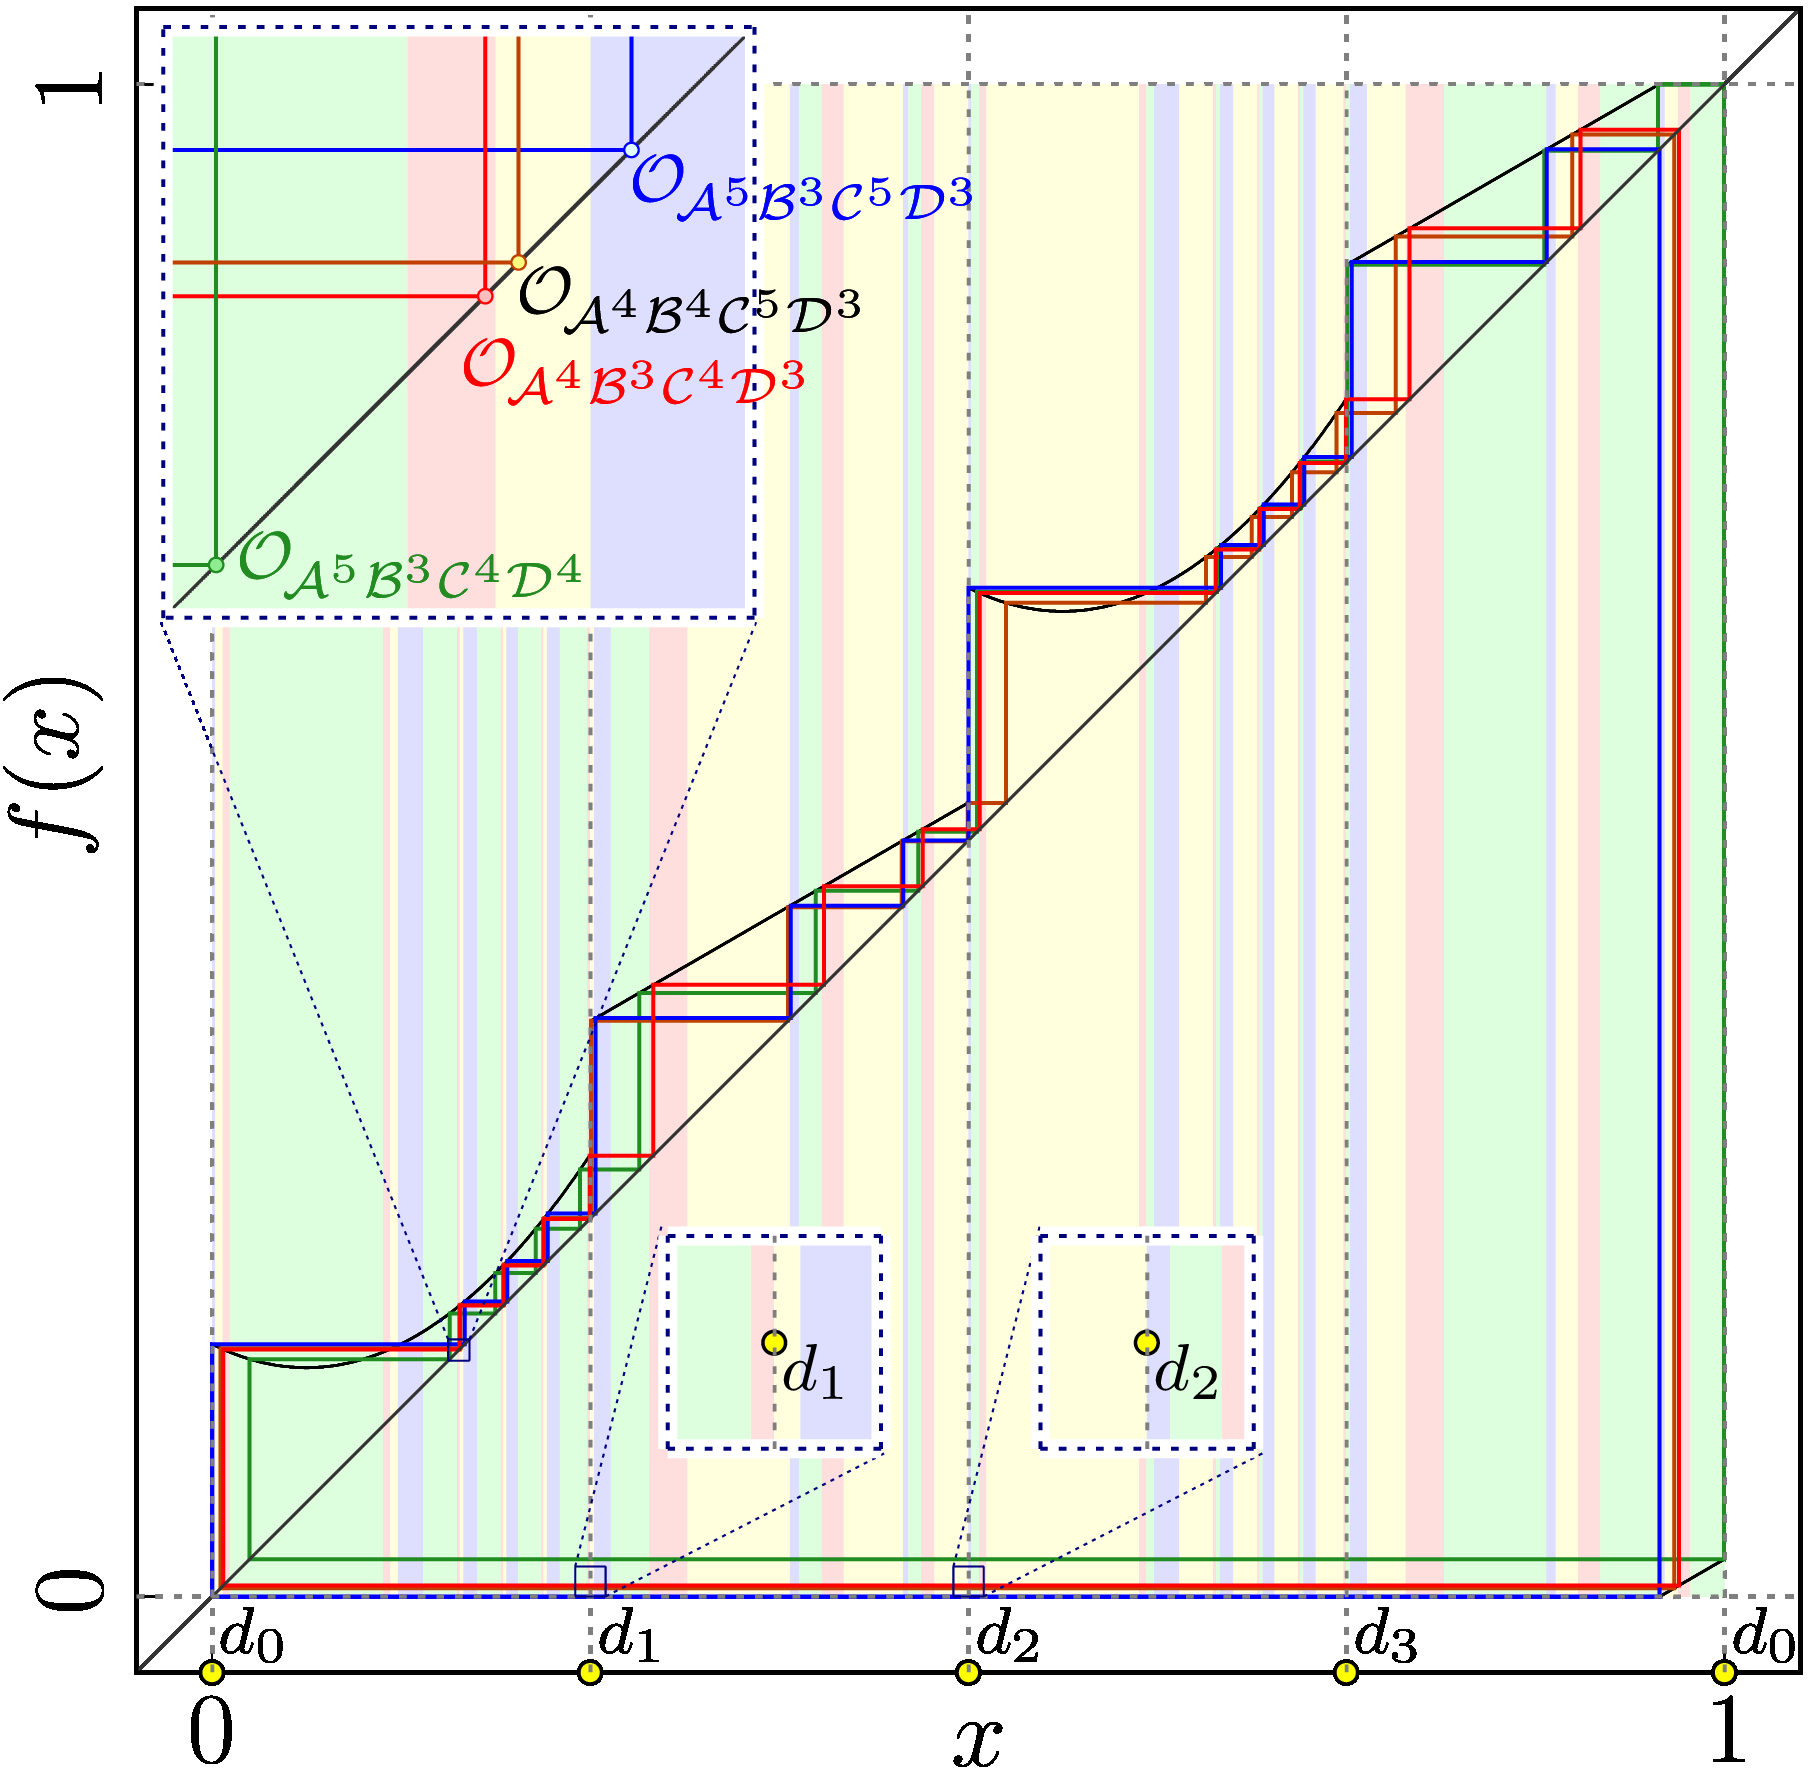
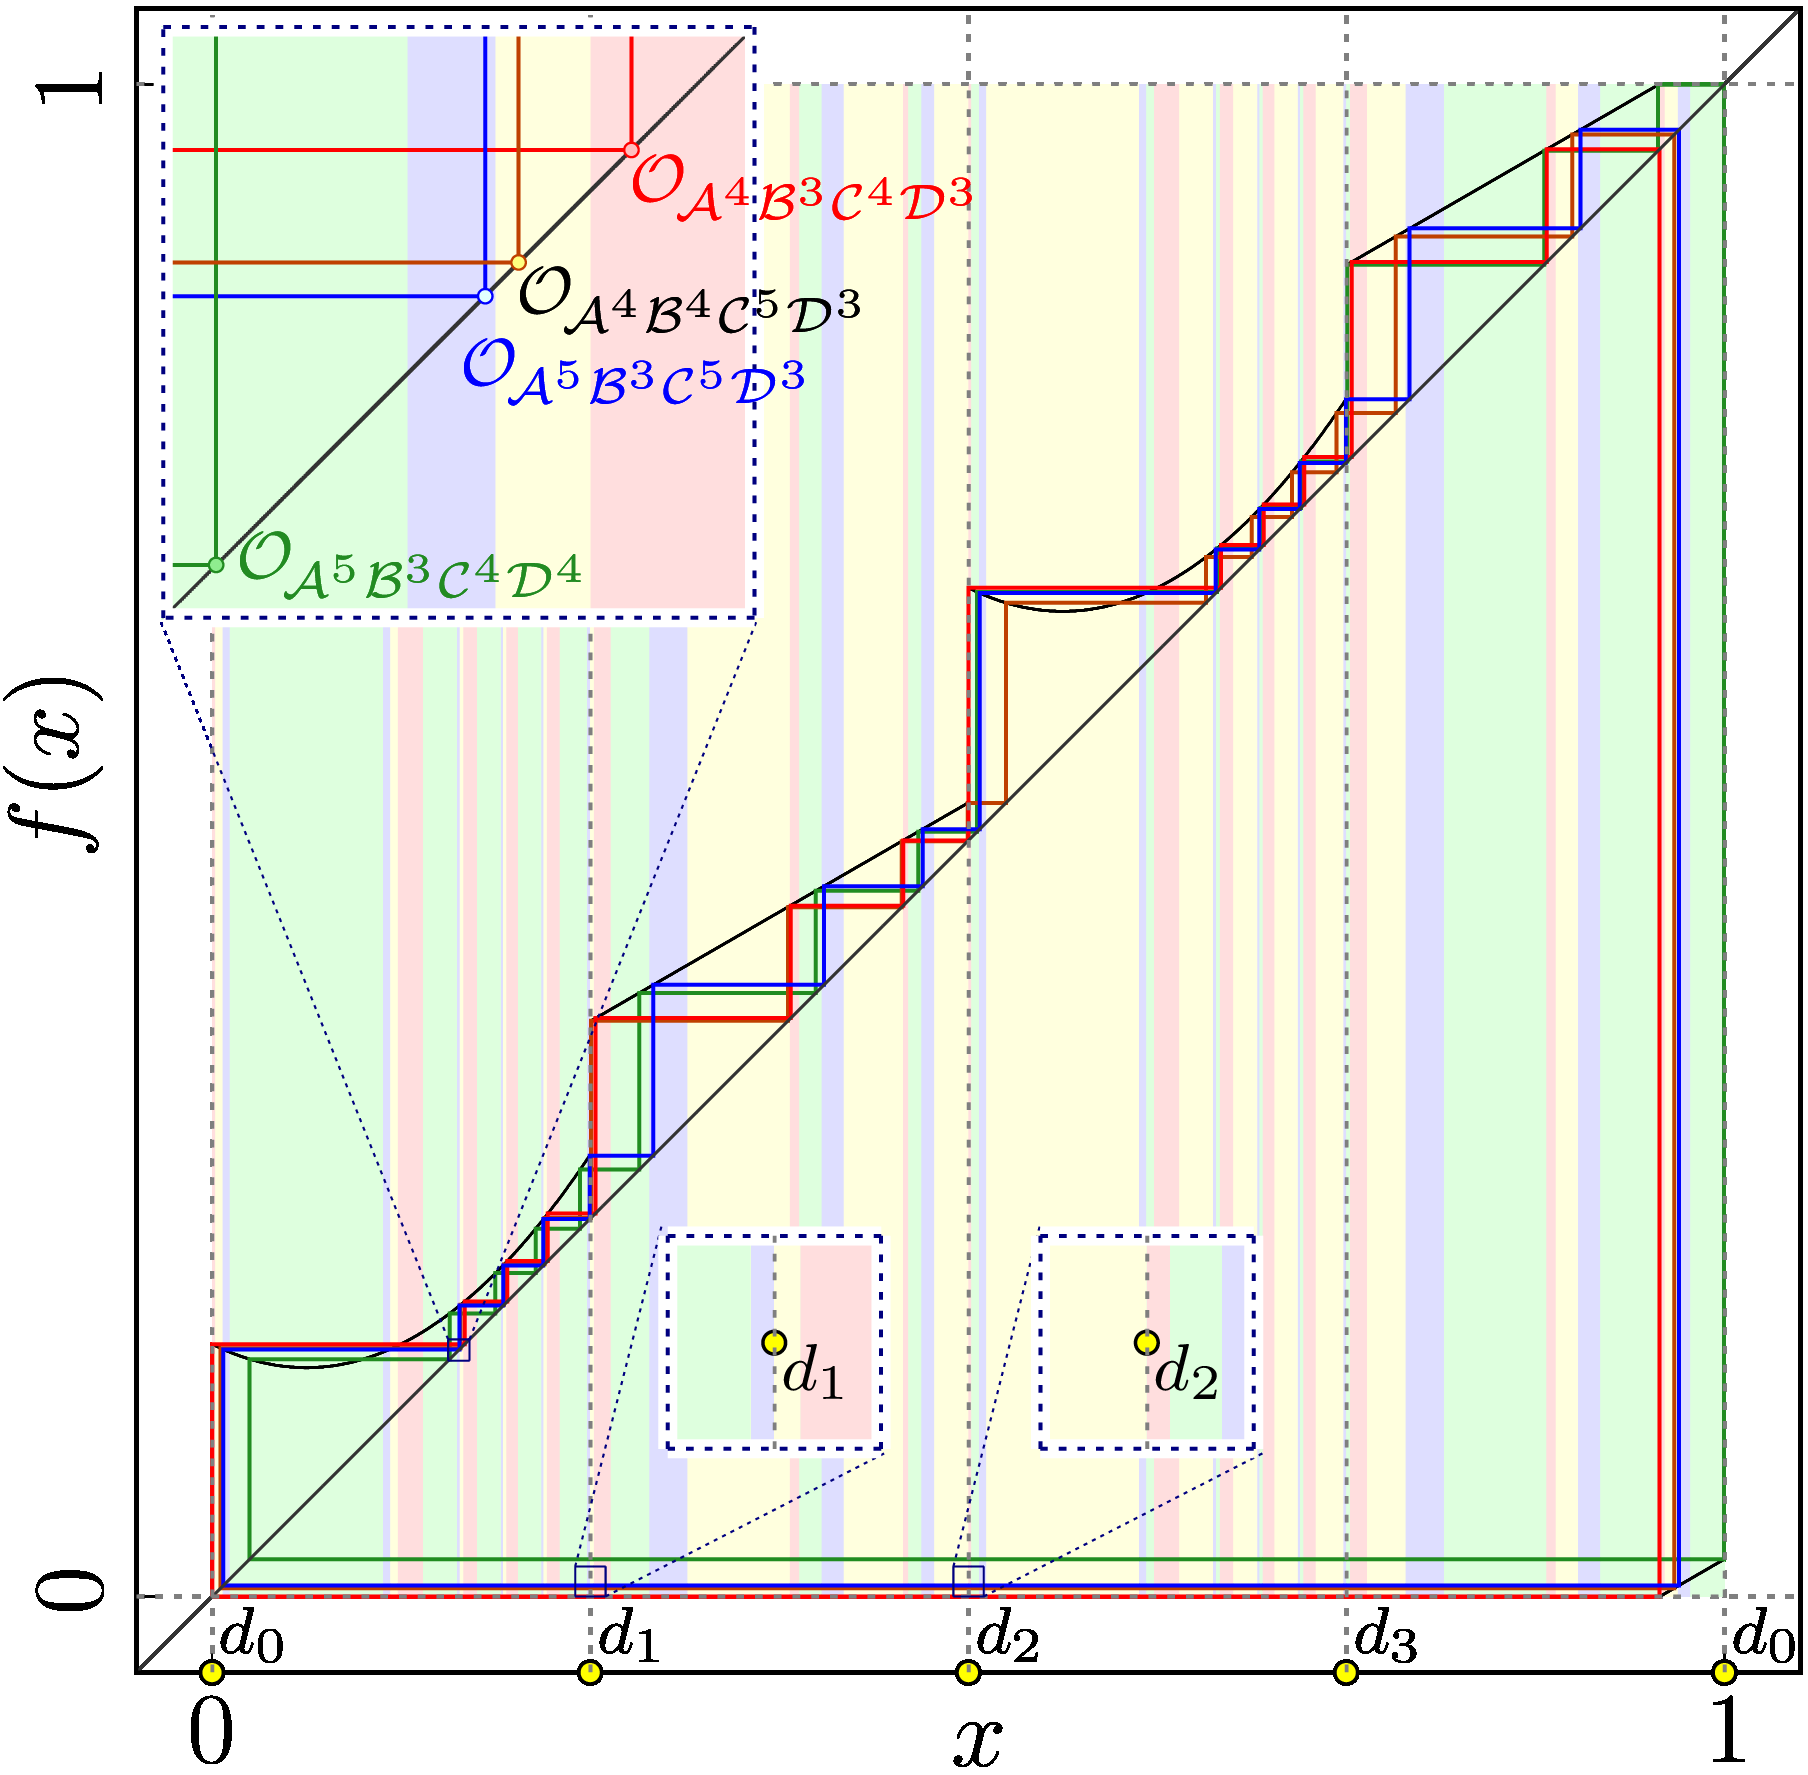
replace pics in coexistence section, started expanding

Changed region(s): [[0.0929, 0.0, 0.9602, 0.8986]]

diff --git a/Report/Sections/60_MinimalRepr/60_coexistence.tex b/Report/Sections/60_MinimalRepr/60_coexistence.tex
@@ -31,6 +31,8 @@ As mentioned above, the simplest case of coexistence in this model is the existe
 A point where this is the case is the point $L$ in \Cref{fig:final.regions.E.halved}.
 Here there is only one stable cycle, $\Cycle{\A^5\B^3\C^5\D^3}$.
 
+\todo{pic, describe, color?}
+
 \subsection{Two ``Type A'' Parameter Regions Overlapping}
 \label{sec:minrep.coex.AA}
 
@@ -50,39 +52,35 @@ For the concrete case pictured in \Cref{fig:final.regions.E.halved}, this result
     \item $\P_{\A^5\B^3\C^5\D^3, \A^6\B^3\C^6\D^3}$ marked with $O$, and
     \item $\P_{\A^5\B^3\C^5\D^3, \A^5\B^2\C^5\D^2}$ marked with $P$.
 \end{enumerate}
+\Cref{fig:minrep.cobweb.M} shows the cobweb diagram for the parameter values at point $M$.
+Here we can see the two cycles of the two different ``type A'' parameter regions.
+The cycle $\Cycle{\A^5\B^3\C^5\D^3}$ is blue and the cycle $\Cycle{\A^4\B^3\C^4\D^3}$ is red, these colors will stay the same for other cobweb diagrams in this section.
+The cobweb diagram also shows the basins of attraction of both cycles, blue for the cycle $\Cycle{\A^5\B^3\C^5\D^3}$ and red for the cycle $\Cycle{\A^4\B^3\C^4\D^3}$.
 
-\todo{replace pics}
 \begin{figure}
     \centering
-    \begin{subfigure}{0.4\textwidth}
-        \includegraphics[width=\textwidth]{60_MinimalRepr/Cobweb_M/result.png}
-        \caption{At Point $M$}
+    \subfloat[Two ``type A'' parameter regions overlapping at point $M$]{
+        \includegraphics[width=.45 \textwidth]{60_MinimalRepr/Cobweb_M/Manual/result.png}
         \label{fig:minrep.cobweb.M}
-    \end{subfigure}
-    \begin{subfigure}{0.4\textwidth}
-        \includegraphics[width=\textwidth]{60_MinimalRepr/Cobweb_N/result.png}
-        \caption{At Point $N$}
-        \label{fig:minrep.cobweb.N}
-    \end{subfigure}
-    \begin{subfigure}{0.4\textwidth}
-        \includegraphics[width=\textwidth]{60_MinimalRepr/Cobweb_O/result.png}
-        \caption{At Point $O$}
-        \label{fig:minrep.cobweb.O}
-    \end{subfigure}
-    \begin{subfigure}{0.4\textwidth}
-        \includegraphics[width=\textwidth]{60_MinimalRepr/Cobweb_P/result.png}
-        \caption{At Point $P$}
-        \label{fig:minrep.cobweb.P}
-    \end{subfigure}
-    \caption{Cobwebs for Scenario of Two Overlapping ``Type A'' Parameter Regions}
+    }
+    \subfloat[Only a ``type B'' parameter region at point $Q$]{
+        \includegraphics[width=.45 \textwidth]{60_MinimalRepr/Cobweb_Q/Manual/result.png}
+        \label{fig:minrep.cobweb.Q}
+    }
+    \caption{Cobwebs for scenarios of 2 coexisting cycles}
 \end{figure}
 
 \subsection{Only one ``Type B'' Parameter Region}
 
 Another very simple case is when a ``Type B'' parameter region does not overlap with any other region.
-In this case, there are two coexisting stable cycles as discussed before in \Cref{sec:og.dynamics}.
-Here the cycles are asymmetrical, if one of the cycles is $\Cycle{\A^x\B^y\C^{x-1}\D^{y+1}}$, the other cycle is $\Cycle{\A^{x-1}\B^{y+1}\C^x\D^y}$.
+In this case, there are two coexisting stable cycles as discussed before in \Cref{sec:og.dynamics} and \Cref{sec:minrep.dynamics}.
+Here the cycles are asymmetrical if one of the cycles is $\Cycle{\A^x\B^y\C^{x-1}\D^{y+1}}$, the other cycle is $\Cycle{\A^{x-1}\B^{y+1}\C^x\D^y}$.
 In the concrete case marked in \Cref{fig:final.regions.F.halved} as point $Q$, these cycles are $\Cycle{\A^5\B^3\C^4\D^4}$ and $\Cycle{\A^4\B^4\C^5\D^3}$.
+
+\Cref{fig:minrep.cobweb.Q} show the cobweb diagram for the parameter values at this point.
+The cycle $\Cycle{\A^5\B^3\C^4\D^4}$ is green and its rotated twin $\Cycle{\A^4\B^4\C^5\D^3}$ is brown.
+Again, for the rest of this section, the colors will stay the same when we encounter these cycles again in cobwebs.
+The basins of attraction are shown as well in the corresponding color for each cycle.
 
 \subsection{One ``Type B'' and One ``Type A'' Parameter Region Overlapping}
 \label{sec:minrep.coex.BA}
@@ -105,38 +103,30 @@ For the concrete case pictured in \Cref{fig:final.regions.F.halved}, this result
     \item $\P_{\A^5\B^3\C^4\D^4, \A^4\B^4\C^5\D^3, \A^4\B^3\C^4\D^3}$ marked with $U$.
 \end{enumerate}
 
+\Cref{fig:minrep.cobweb.U} shows the cobweb diagram for the parameter values at point $U$.
+This point is chosen for the cobweb diagram, since here the parameter regions $\P_{\A^4\B^3\C^4\D^3}$ and $\P_{\A^5\B^3\C^4\D^4, \A^4\B^4\C^5\D^3}$ overlap and the cycles that exist at this point were already in the previous cobweb diagrams.
+The colors for each cycle, as well as their basins of attraction, are the same as in previous cobweb diagrams.
+
 \todo{replace pics}
 \begin{figure}
     \centering
-    \begin{subfigure}{0.4\textwidth}
-        \includegraphics[width=\textwidth]{60_MinimalRepr/Cobweb_R/result.png}
-        \caption{At Point $R$}
-        \label{fig:minrep.cobweb.R}
-    \end{subfigure}
-    \begin{subfigure}{0.4\textwidth}
-        \includegraphics[width=\textwidth]{60_MinimalRepr/Cobweb_S/result.png}
-        \caption{At Point $S$}
-        \label{fig:minrep.cobweb.S}
-    \end{subfigure}
-    \begin{subfigure}{0.4\textwidth}
-        \includegraphics[width=\textwidth]{60_MinimalRepr/Cobweb_T/result.png}
-        \caption{At Point $T$}
-        \label{fig:minrep.cobweb.T}
-    \end{subfigure}
-    \begin{subfigure}{0.4\textwidth}
-        \includegraphics[width=\textwidth]{60_MinimalRepr/Cobweb_U/result.png}
-        \caption{At Point $U$}
+    \subfloat[$U$]{
+        \includegraphics[width=.45 \textwidth]{60_MinimalRepr/Cobweb_U/Manual/result.png}
         \label{fig:minrep.cobweb.U}
-    \end{subfigure}
-    \caption{Cobwebs for Scenario of a ``Type B'' and a ``Type B'' Parameter Region Overlapping}
+    }
+    \subfloat[$X$]{
+        \includegraphics[width=.45 \textwidth]{60_MinimalRepr/Cobweb_X/Manual/result.png}
+        \label{fig:minrep.cobweb.X}
+    }
+    \caption{Cobwebs for scenarios of 3 and 4 coexisting cycles}
 \end{figure}
 
 \subsection{One ``Type B'' and Two ``Type A'' Parameter Regions Overlapping}
 
 When looking closer at \Cref{fig:final.regions.F.halved}, one can see that the parameter regions described in the previous \Cref{sec:minrep.coex.BA} also overlap with one another.
-This results in parameter regions where there are two stable cycles from a ``Type B'' parameter region and two stable cycles, each from one ``Type A'' parameter region, coexisting.
-So there are four parameter regions for every ``Type B'' parameter region, where four stable cycles are coexisting.
-For the stable cycles $\Cycle{\A^x\B^y\C^{x-1}\D^{y+1}}$ and $\Cycle{\A^{x-1}\B^{y+1}\C^x\D^y}$ in the ``Type B'' parameter region, the cycles they will coexist with are pairs of the cycles discussed in \Cref{sec:minrep.coex.BA}.
+This results in parameter regions where there are two stable cycles from a ``type B'' parameter region and two stable cycles, each from one ``type A'' parameter region, coexisting.
+So there are four parameter regions for every ``type B'' parameter region, where four stable cycles are coexisting.
+For the stable cycles $\Cycle{\A^x\B^y\C^{x-1}\D^{y+1}}$ and $\Cycle{\A^{x-1}\B^{y+1}\C^x\D^y}$ in the ``type B'' parameter region, the cycles they will coexist with are pairs of the cycles discussed in \Cref{sec:minrep.coex.BA}.
 They are
 \begin{enumerate*}
     \item $\Cycle{\A^{x-1}\B^{y+1}\C^{x-1}\D^{y+1}}$ and $\Cycle{\A^x\B^{y+1}\C^x\D^{y+1}}$,
@@ -152,28 +142,13 @@ For the concrete case pictured in \Cref{fig:final.regions.F.halved}, this result
     \item $\P_{\A^5\B^3\C^4\D^4, \A^4\B^4\C^5\D^3, \A^4\B^3\C^4\D^3, \A^4\B^4\C^4\D^4}$ marked with $Y$.
 \end{enumerate}
 
-\todo{replace pics}
-\begin{figure}
-    \centering
-    \begin{subfigure}{0.4\textwidth}
-        \includegraphics[width=\textwidth]{60_MinimalRepr/Cobweb_V/result.png}
-        \caption{At Point $V$}
-        \label{fig:minrep.cobweb.V}
-    \end{subfigure}
-    \begin{subfigure}{0.4\textwidth}
-        \includegraphics[width=\textwidth]{60_MinimalRepr/Cobweb_W/result.png}
-        \caption{At Point $W$}
-        \label{fig:minrep.cobweb.W}
-    \end{subfigure}
-    \begin{subfigure}{0.4\textwidth}
-        \includegraphics[width=\textwidth]{60_MinimalRepr/Cobweb_X/result.png}
-        \caption{At Point $X$}
-        \label{fig:minrep.cobweb.X}
-    \end{subfigure}
-    \begin{subfigure}{0.4\textwidth}
-        \includegraphics[width=\textwidth]{60_MinimalRepr/Cobweb_Y/Manual/result.png}
-        \caption{At Point $Y$}
-        \label{fig:minrep.cobweb.Y}
-    \end{subfigure}
-    \caption{Cobwebs for Scenario of a ``Type B'' Parameter Region and Two ``Type A'' Parameter Regions Overlapping}
-\end{figure}
+\Cref{fig:minrep.cobweb.X} shows the cobweb diagram for the point $X$.
+Again, this point is chosen so that the coexisting cycles were already in previous cobweb diagrams in this section.
+The colors for each cycle, as well as their basins of attraction, are the same as in previous cobweb diagrams.
+If we compare this cobweb diagram to the cobweb diagram of point $U$ in \Cref{fig:minrep.cobweb.U}, we can see that the cycles $\Cycle{\A^4\B^3\C^4\D^3}$, $\Cycle{\A^5\B^3\C^4\D^4}$, and $\Cycle{\A^4\B^4\C^5\D^3}$ exist at almost the same point.
+The same is true for their basins of attraction.
+But there is a new cycle, $\Cycle{A^5\B^3\C^5\D^3}$ (blue), that emerged between the basins of attraction of the two cycles of the ``type B'' parameter region, $\Cycle{\A^5\B^3\C^4\D^4}$ and $\Cycle{\A^4\B^4\C^5\D^3}$.
+
+\todo{describe basins of attractions at borders, type B asymm, type A symm}
+
+\todo{new, not detected in original model}

diff --git a/Report/Sections/60_MinimalRepr/30_dynamics.tex b/Report/Sections/60_MinimalRepr/30_dynamics.tex
@@ -1,4 +1,5 @@
 \section{Model Dynamics}
+\label{sec:minrep.dynamics}
 
 The dynamics, that emerge from this model, are very similar to the dynamics of the original model described in \Cref{sec:og.dynamics}.
 \Cref{fig:final.period.whole.full} displays a 2D scan showing the periods of the stable cycles in the model.
